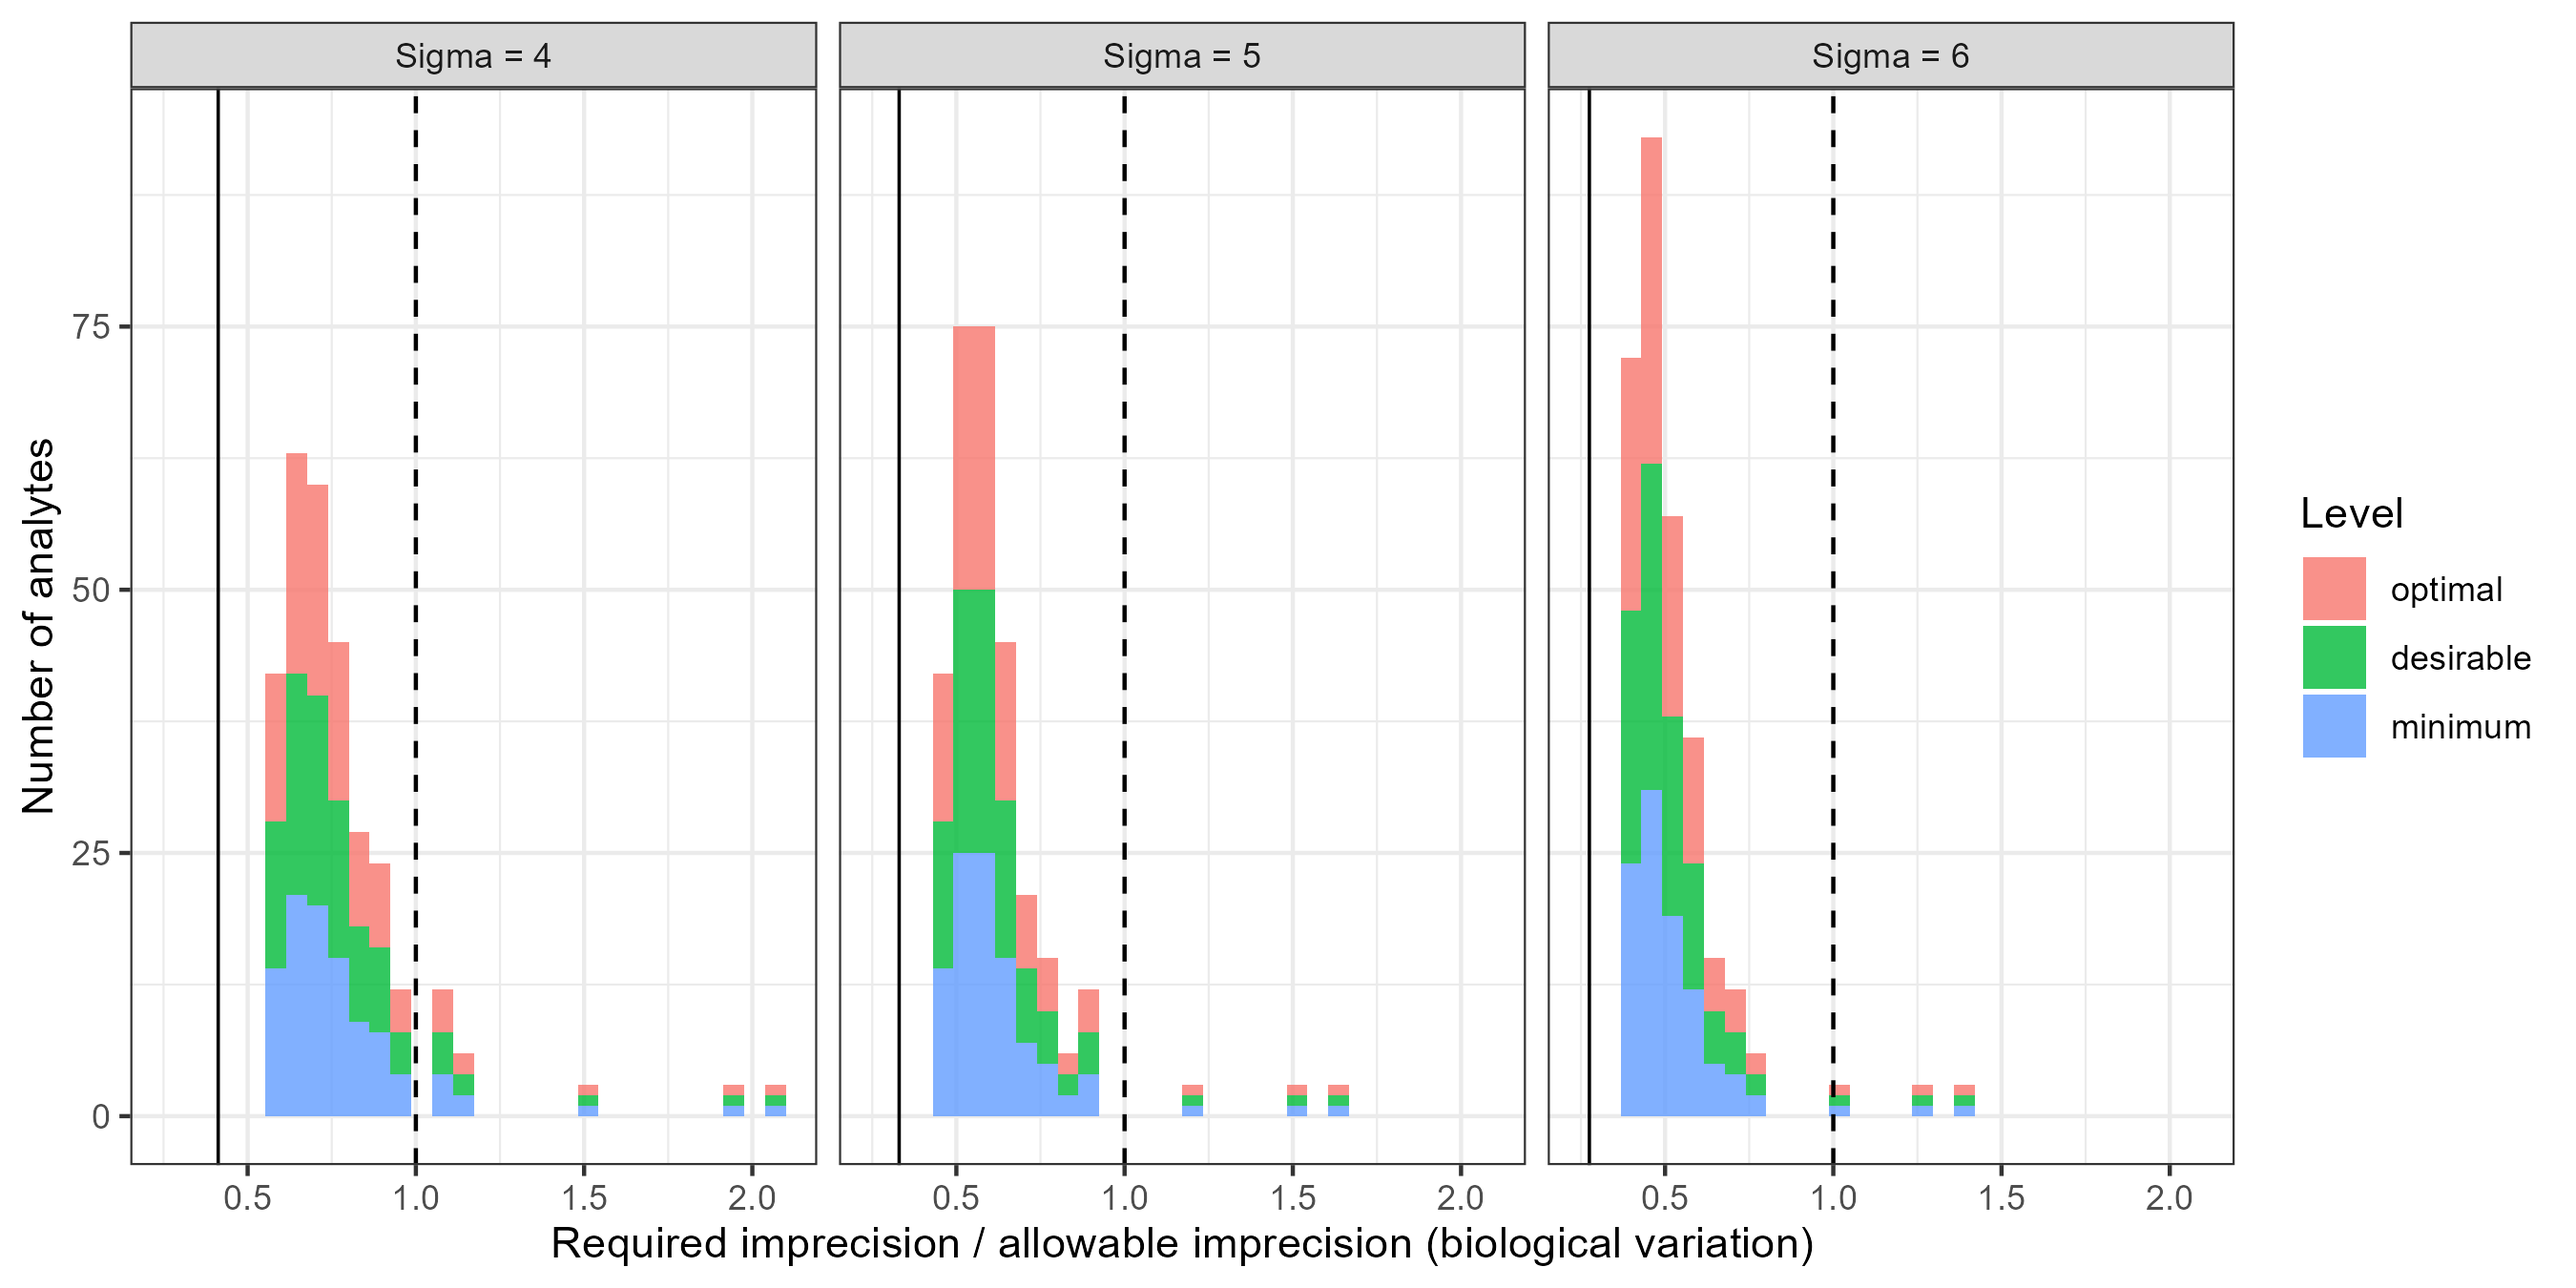
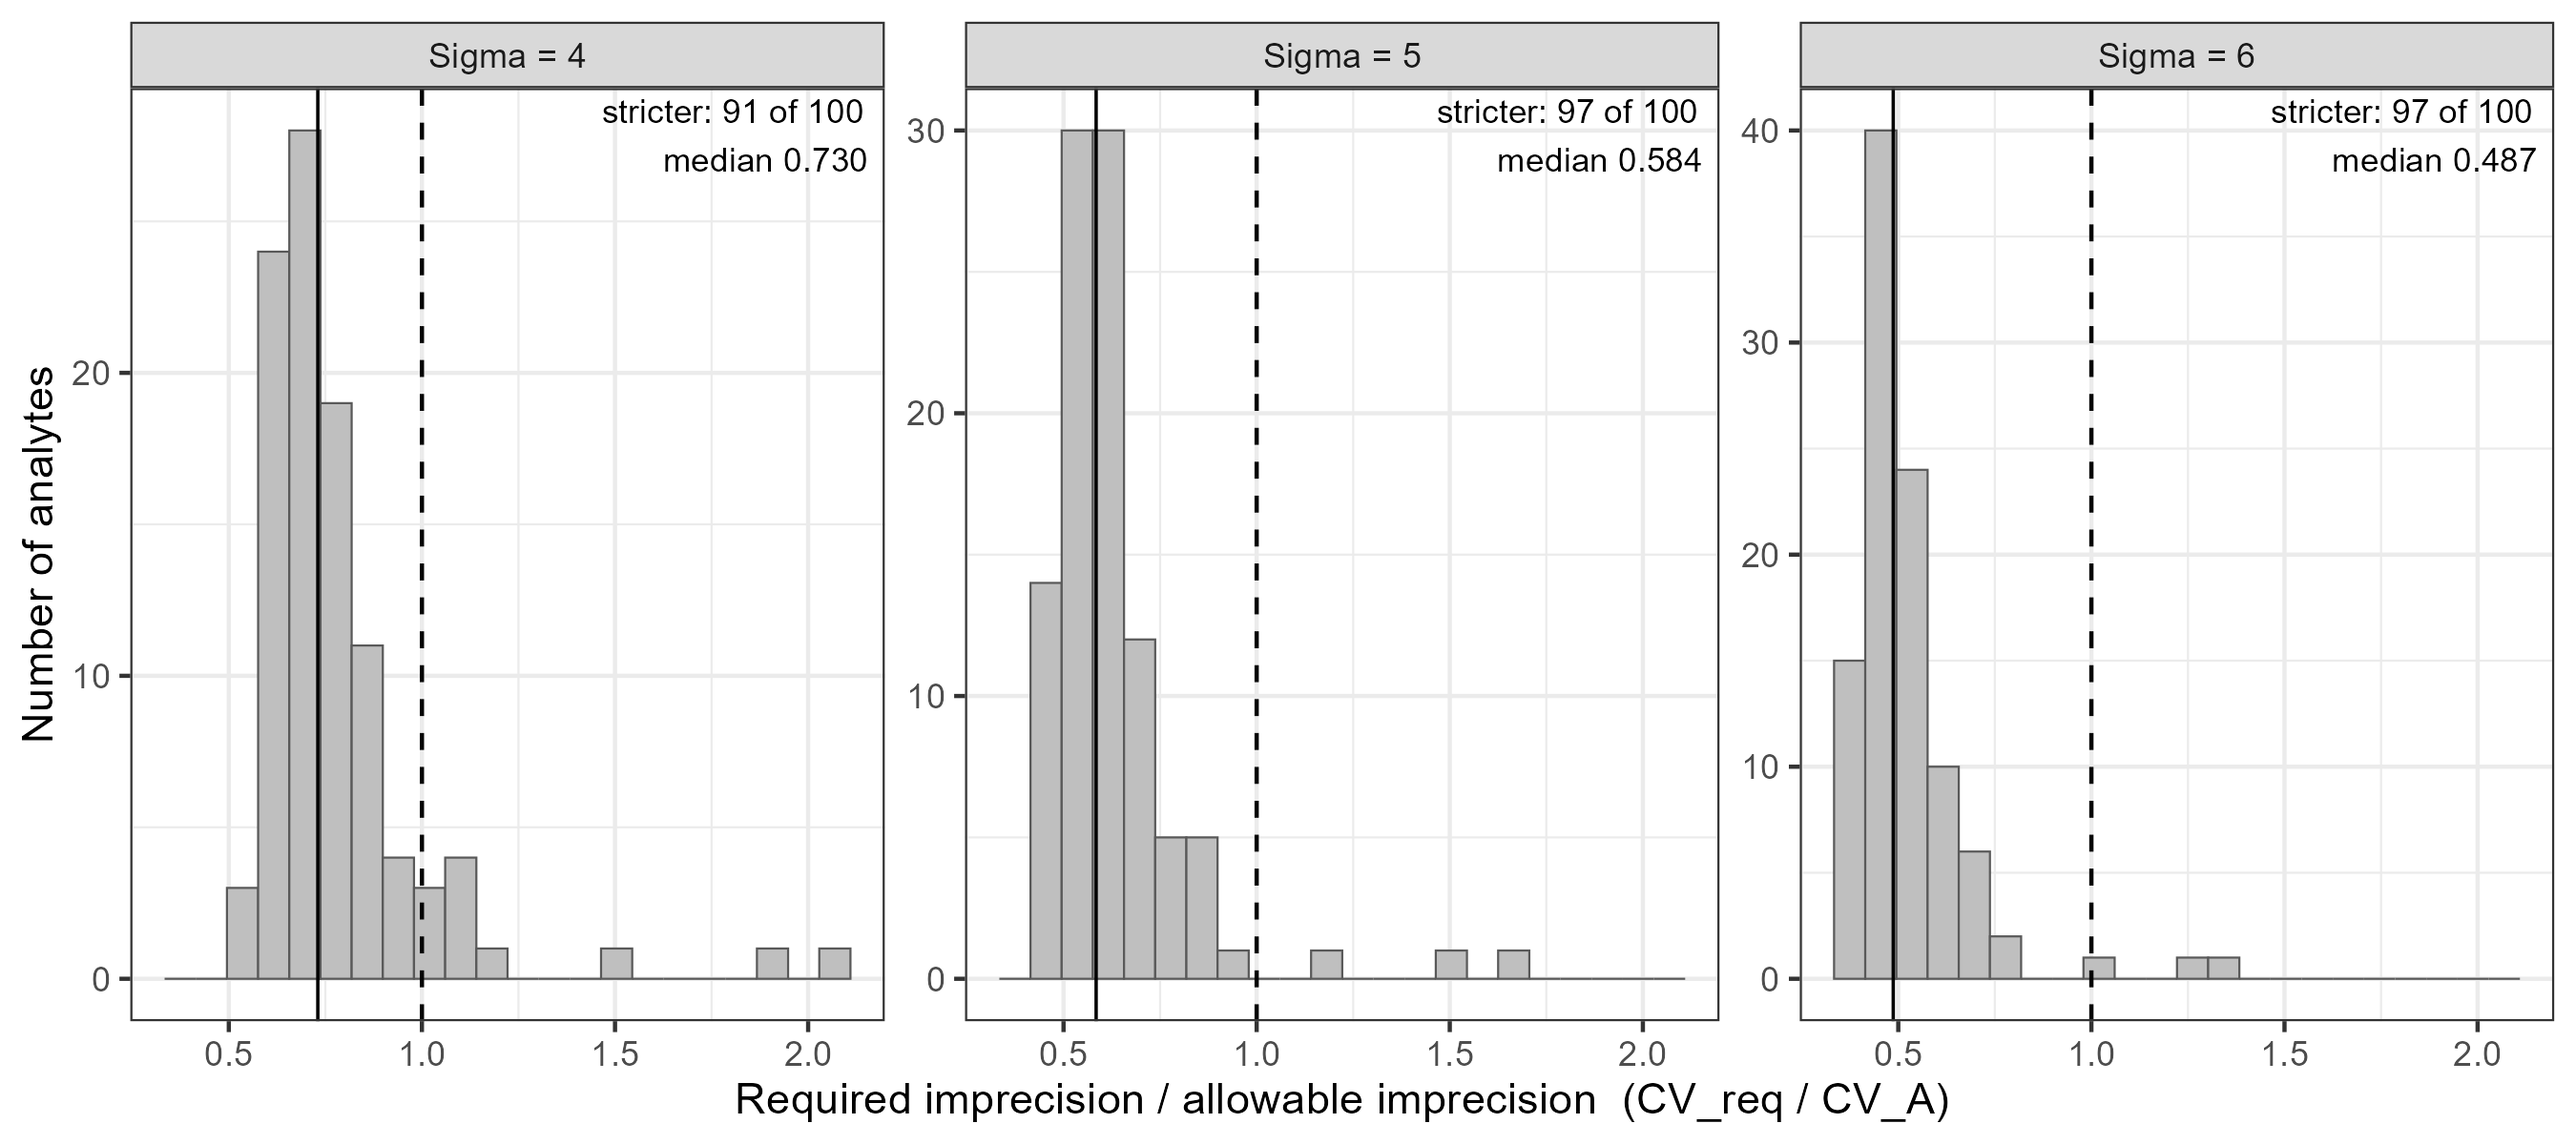
Rework the main figures and move all Monte Carlo output to supplementary material
Figure 1 is now the analytical relationship between the two frameworks: the ratio of required to allowable imprecision as a function of observed bias expressed as a fraction of the allowable bias, ratio(beta) = (k + 0.5*R*(1 - beta))/sigma. The band shows the panel range of R, the line the median, and the ratio = 1 threshold is crossed inside the range by exactly the 9 analytes at sigma = 4 and the 3 at sigma = 5 and 6. Figure 2 is rebuilt as the distribution of the ratio across the 100 analytes in three panels (sigma = 4, 5, 6) with the ratio = 1 line, the median and per-panel counts. The former Figure 1 (required imprecision by stringency level) becomes Figure S2; fig1_required_imprecision.png is removed. All Monte Carlo content is now supplementary: the results subsection was deleted, Methods keeps a single pointer, and the practical section cites Table S1 without numbers - no Pfr, ARL or Ped values remain in the main text. Supplementary material lists both supplementary figures.

diff --git a/README.md b/README.md
@@ -50,7 +50,7 @@ With one and the same TEa used by both frameworks:
   (point estimates 92 / 98 / 98). The classification changes for 42, 24 and 14 analytes
   respectively, and no analyte stays unaffected under every combination of bounds
   (`out/table_s7_threshold_sensitivity.csv`). CEA at σ = 6 sits 0.31 % above the threshold.
-- **Quality control schemes.** False-rejection probability per run rises from 0.00270
+- **Quality control schemes** (supplementary material only; the Monte Carlo step validates the pipeline and illustrates the thresholds rather than testing the main hypothesis). False-rejection probability per run rises from 0.00270
   (1-3s, N = 1) to 0.04088 (full rule set plus 10x, N = 4); the Monte Carlo average run
   length falls from 369.6 to 25.3 runs; the probability of a signal at a 1 SD shift within
   100 runs rises from 0.899 to 1.000. At a 2 SD shift the lower 95 % confidence bound is at
@@ -234,7 +234,8 @@ Published with the repository:
 | `out/k_sensitivity.csv` | Sensitivity of the results to the imprecision multiplier `k` |
 | `out/estimator_comparison.csv` | Naive versus stationary false-rejection estimator |
 | `out/qc_false_rejection.csv`, `out/qc_power.csv`, `out/qc_power.rds` | Full Monte Carlo results |
-| `out/fig1_required_imprecision.png`, `out/fig2_ratio_to_bv.png`, `out/figS1_qc_power.png` | Figures (300 dpi) |
+| `out/fig1_bv_vs_sigma.png`, `out/fig2_ratio_to_bv.png` | Main figures (300 dpi): the analytical relationship between the two frameworks, and the distribution of the ratio across the panel |
+| `out/figS1_qc_power.png`, `out/figS2_required_imprecision.png` | Supplementary figures (300 dpi): Monte Carlo scheme performance, and required imprecision by stringency level |
 
 Generated locally only, and therefore absent from the clone (see
 [`.gitignore`](.gitignore)): `out/bv_meta.csv`, `out/sigma_specs.csv`,

diff --git a/out/supplementary_tables.md b/out/supplementary_tables.md
@@ -150,3 +150,9 @@ p = 0,0027 составляет −6,3 %, наблюдённое в модели
 не затронутыми по медианам. Столбец «CV_I на верхней границе» использует наибольшее значение
 CV_I, что даёт наименьшее отношение CV_G/CV_I и наибольшее число затронутых аналитов.
 
+## Рисунки дополнительных материалов
+
+**Рисунок S1.** Вероятность сигнала при сдвиге 0,5–3 SD для шести схем контроля — `out/figS1_qc_power.png`.
+
+**Рисунок S2.** Требуемая неточность метода по уровням строгости и целевым значениям сигмы — `out/figS2_required_imprecision.png`.
+
